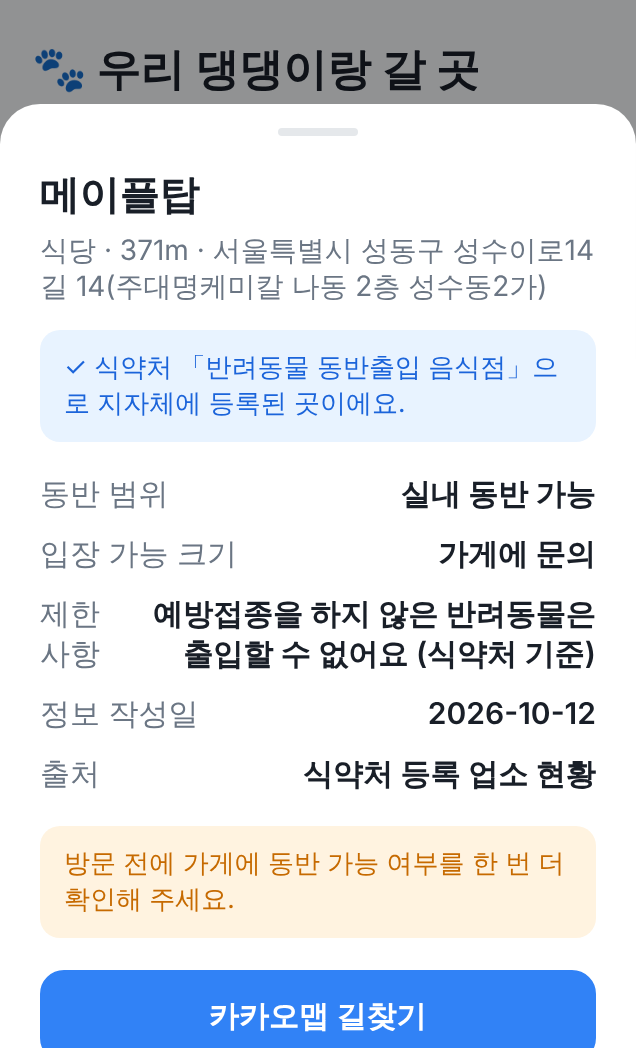
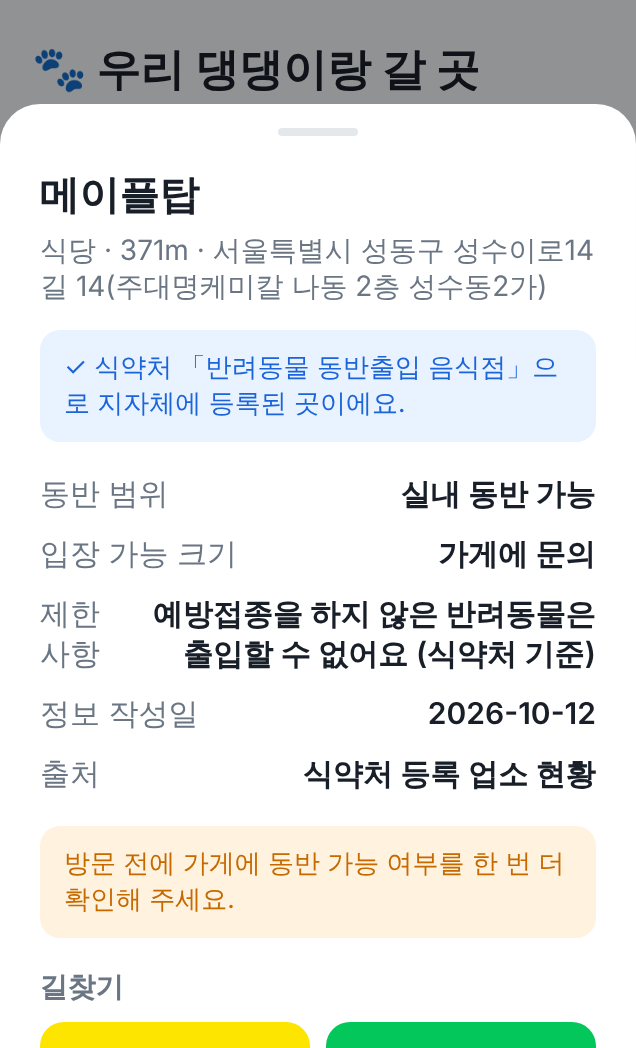
Add Naver Map directions next to Kakao Map
The place sheet now offers both Kakao Map and Naver Map directions to
the place, and the store screenshot and description mention both.

Claude-Session: https://claude.ai/code/session_01WmdnYUMLqCHJMdmZQbfCN1

Changed region(s): [[0.0597, 0.916, 0.956, 1.0]]

diff --git a/pet-friendly-finder/src/components/PlaceDetail.tsx b/pet-friendly-finder/src/components/PlaceDetail.tsx
@@ -2,6 +2,7 @@ import { useState } from 'react';
 import { useBackHandler } from '../lib/back';
 import { formatDistance } from '../lib/geo';
 import { openExternal } from '../lib/location';
+import { kakaoDirectionsUrl, naverDirectionsUrl } from '../lib/mapLinks';
 import { REPORT_KIND_LABEL, reportPlace, reportingEnabled, type ReportKind, type SubmitResult } from '../lib/reports';
 import type { PlaceWithDistance } from '../types';
 import { PET_AREA_LABEL, SOURCE_LABEL } from '../labels';
@@ -17,7 +18,6 @@ export function PlaceDetail({ place, onClose, onToast }: Props) {
   const [reporting, setReporting] = useState(false);
   // 신고 화면에서 뒤로가기 → 가게 상세로 돌아가기
   useBackHandler(reporting, () => setReporting(false));
-  const directionsUrl = `https://map.kakao.com/link/to/${encodeURIComponent(place.name)},${place.lat},${place.lng}`;
 
   if (reporting) {
     return (
@@ -81,16 +81,20 @@ export function PlaceDetail({ place, onClose, onToast }: Props) {
 
       <p className="notice">방문 전에 가게에 동반 가능 여부를 한 번 더 확인해 주세요.</p>
 
-      <div className={`sheet-actions${reportingEnabled ? '' : ' single'}`}>
-        <button type="button" className="btn btn-primary" onClick={() => openExternal(directionsUrl)}>
-          카카오맵 길찾기
+      <p className="directions-label">길찾기</p>
+      <div className="sheet-actions directions">
+        <button type="button" className="btn btn-map btn-kakao" onClick={() => openExternal(kakaoDirectionsUrl(place))}>
+          카카오맵
         </button>
-        {reportingEnabled && (
-          <button type="button" className="btn" onClick={() => setReporting(true)}>
-            정보가 달라요
-          </button>
-        )}
+        <button type="button" className="btn btn-map btn-naver" onClick={() => openExternal(naverDirectionsUrl(place))}>
+          네이버 지도
+        </button>
       </div>
+      {reportingEnabled && (
+        <button type="button" className="btn btn-block btn-report" onClick={() => setReporting(true)}>
+          정보가 달라요
+        </button>
+      )}
     </Sheet>
   );
 }

diff --git a/pet-friendly-finder/src/lib/mapLinks.test.ts b/pet-friendly-finder/src/lib/mapLinks.test.ts
@@ -1,0 +1,24 @@
+import { describe, expect, it } from 'vitest';
+import { kakaoDirectionsUrl, naverDirectionsUrl } from './mapLinks';
+
+const place = { name: '사직커피 & 베이크', lat: 37.5757, lng: 126.9688 };
+
+describe('길찾기 링크', () => {
+  it('카카오맵: 이름,위도,경도', () => {
+    expect(kakaoDirectionsUrl(place)).toBe(
+      'https://map.kakao.com/link/to/%EC%82%AC%EC%A7%81%EC%BB%A4%ED%94%BC%20%26%20%EB%B2%A0%EC%9D%B4%ED%81%AC,37.5757,126.9688',
+    );
+  });
+
+  it('네이버 지도: 도착지 좌표·이름이 들어간다', () => {
+    const url = new URL(naverDirectionsUrl(place));
+    expect(url.origin).toBe('https://map.naver.com');
+    expect(Object.fromEntries(url.searchParams)).toEqual({
+      elng: '126.9688',
+      elat: '37.5757',
+      etext: '사직커피 & 베이크',
+      menu: 'route',
+      pathType: '0',
+    });
+  });
+});

diff --git a/pet-friendly-finder/src/lib/mapLinks.ts b/pet-friendly-finder/src/lib/mapLinks.ts
@@ -1,0 +1,20 @@
+import type { Place } from '../types';
+
+// 길찾기 링크. 앱이 깔려 있으면 앱으로, 없으면 웹 지도로 열려요.
+
+/** 카카오맵 길찾기 (도착지 = 가게) */
+export function kakaoDirectionsUrl(place: Pick<Place, 'name' | 'lat' | 'lng'>): string {
+  return `https://map.kakao.com/link/to/${encodeURIComponent(place.name)},${place.lat},${place.lng}`;
+}
+
+/** 네이버 지도 길찾기 (도착지 = 가게, 자동차 경로) */
+export function naverDirectionsUrl(place: Pick<Place, 'name' | 'lat' | 'lng'>): string {
+  const qs = new URLSearchParams({
+    elng: String(place.lng),
+    elat: String(place.lat),
+    etext: place.name,
+    menu: 'route',
+    pathType: '0',
+  });
+  return `https://map.naver.com/index.nhn?${qs}`;
+}

diff --git a/pet-friendly-finder/src/index.css b/pet-friendly-finder/src/index.css
@@ -563,3 +563,34 @@ main {
 .result-count strong {
   color: var(--primary);
 }
+
+.directions-label {
+  margin: 16px 0 8px;
+  font-size: 14px;
+  font-weight: 600;
+  color: var(--muted);
+}
+
+.sheet-actions.directions {
+  grid-template-columns: 1fr 1fr;
+  margin-top: 0;
+}
+
+/* 각 지도 앱을 알아보기 쉽게 브랜드 색 */
+.btn-map {
+  border: 0;
+}
+
+.btn-kakao {
+  background: #fee500;
+  color: #191919;
+}
+
+.btn-naver {
+  background: #03c75a;
+  color: #fff;
+}
+
+.btn-report {
+  margin-top: 8px;
+}

diff --git a/pet-friendly-finder/store/콘솔-입력정보.md b/pet-friendly-finder/store/콘솔-입력정보.md
@@ -26,7 +26,7 @@
 
 앱을 열고 '내 위치로 찾기'를 누르면 반경 1km·3km·5km 안의 애견동반 가능한 가게가 거리순으로 나와요. 위치를 쓰고 싶지 않다면 서울 강남, 성수, 부산 해운대, 제주 등 지역을 골라서 둘러볼 수도 있어요.
 
-식당만, 카페만 골라 보거나 '대형견 가능', '실내 동반' 조건으로 걸러 볼 수 있어요. 가게를 누르면 동반 범위(실내·테라스·케이지), 입장 가능한 크기, 제한사항을 확인하고 카카오맵 길찾기로 바로 이동할 수 있어요.
+식당만, 카페만 골라 보거나 '대형견 가능', '실내 동반' 조건으로 걸러 볼 수 있어요. 가게를 누르면 동반 범위(실내·테라스·케이지), 입장 가능한 크기, 제한사항을 확인하고 카카오맵이나 네이버 지도 길찾기로 바로 이동할 수 있어요.
 
 식약처 「반려동물 동반출입 음식점」으로 지자체에 등록된 2,800여 곳에는 '식약처 등록' 표시가 붙어 있어 믿고 방문할 수 있어요. 한국문화정보원 공공데이터를 더해 전국 3,500여 곳을 담았어요.
 ```
